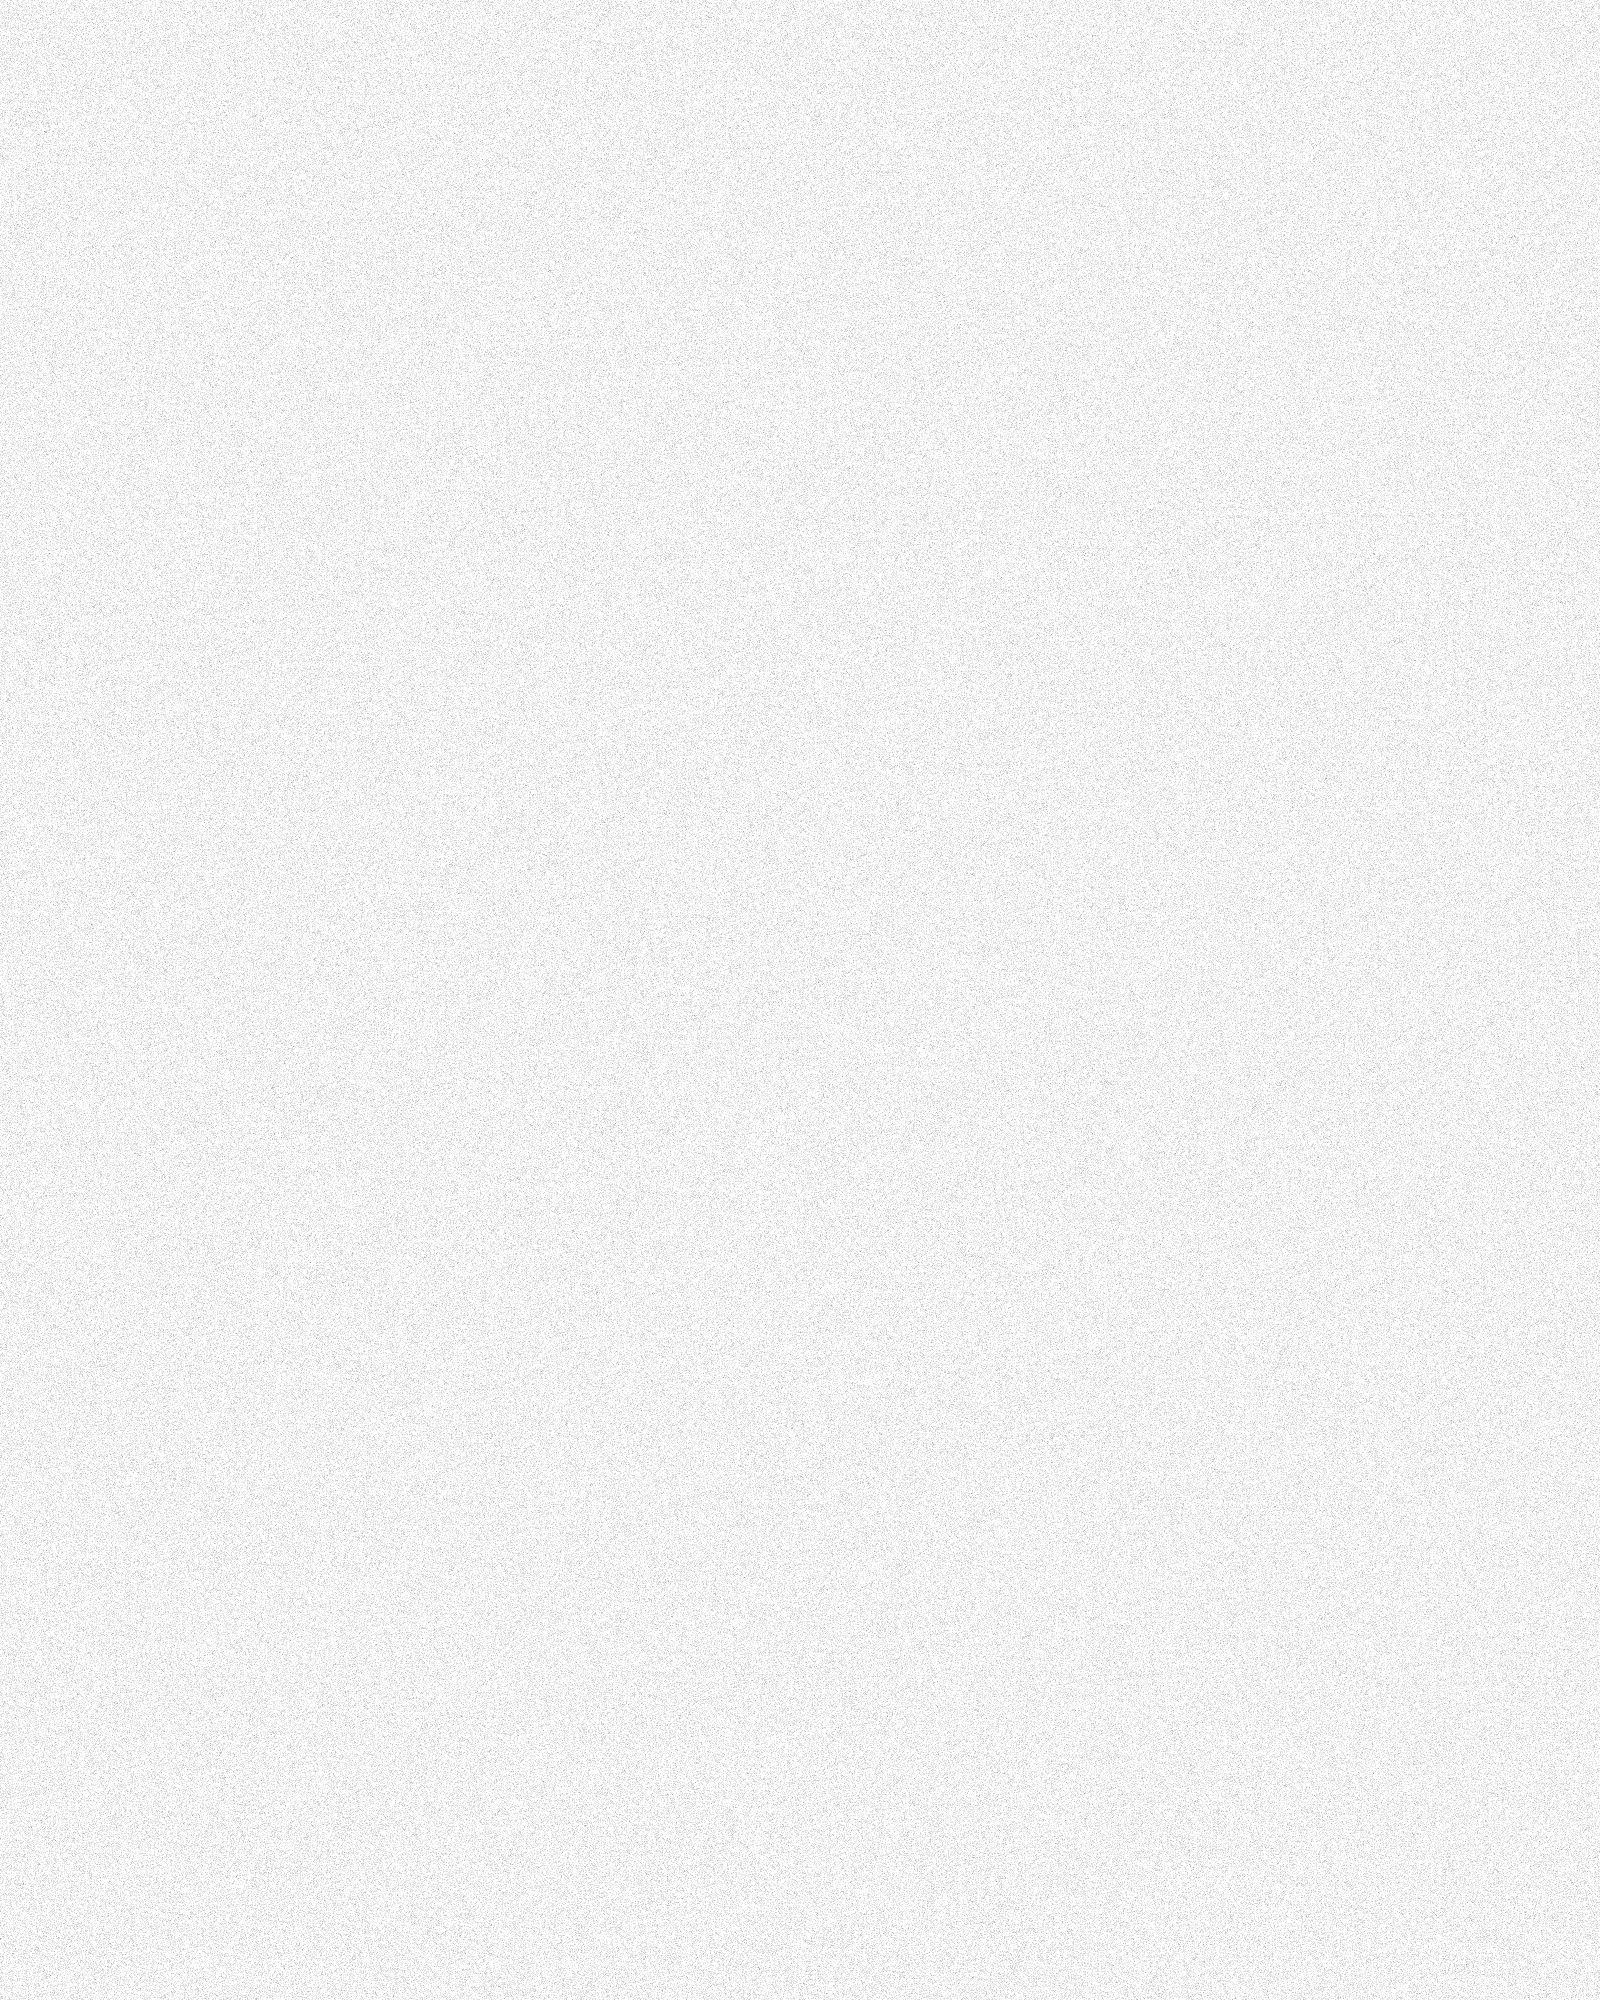
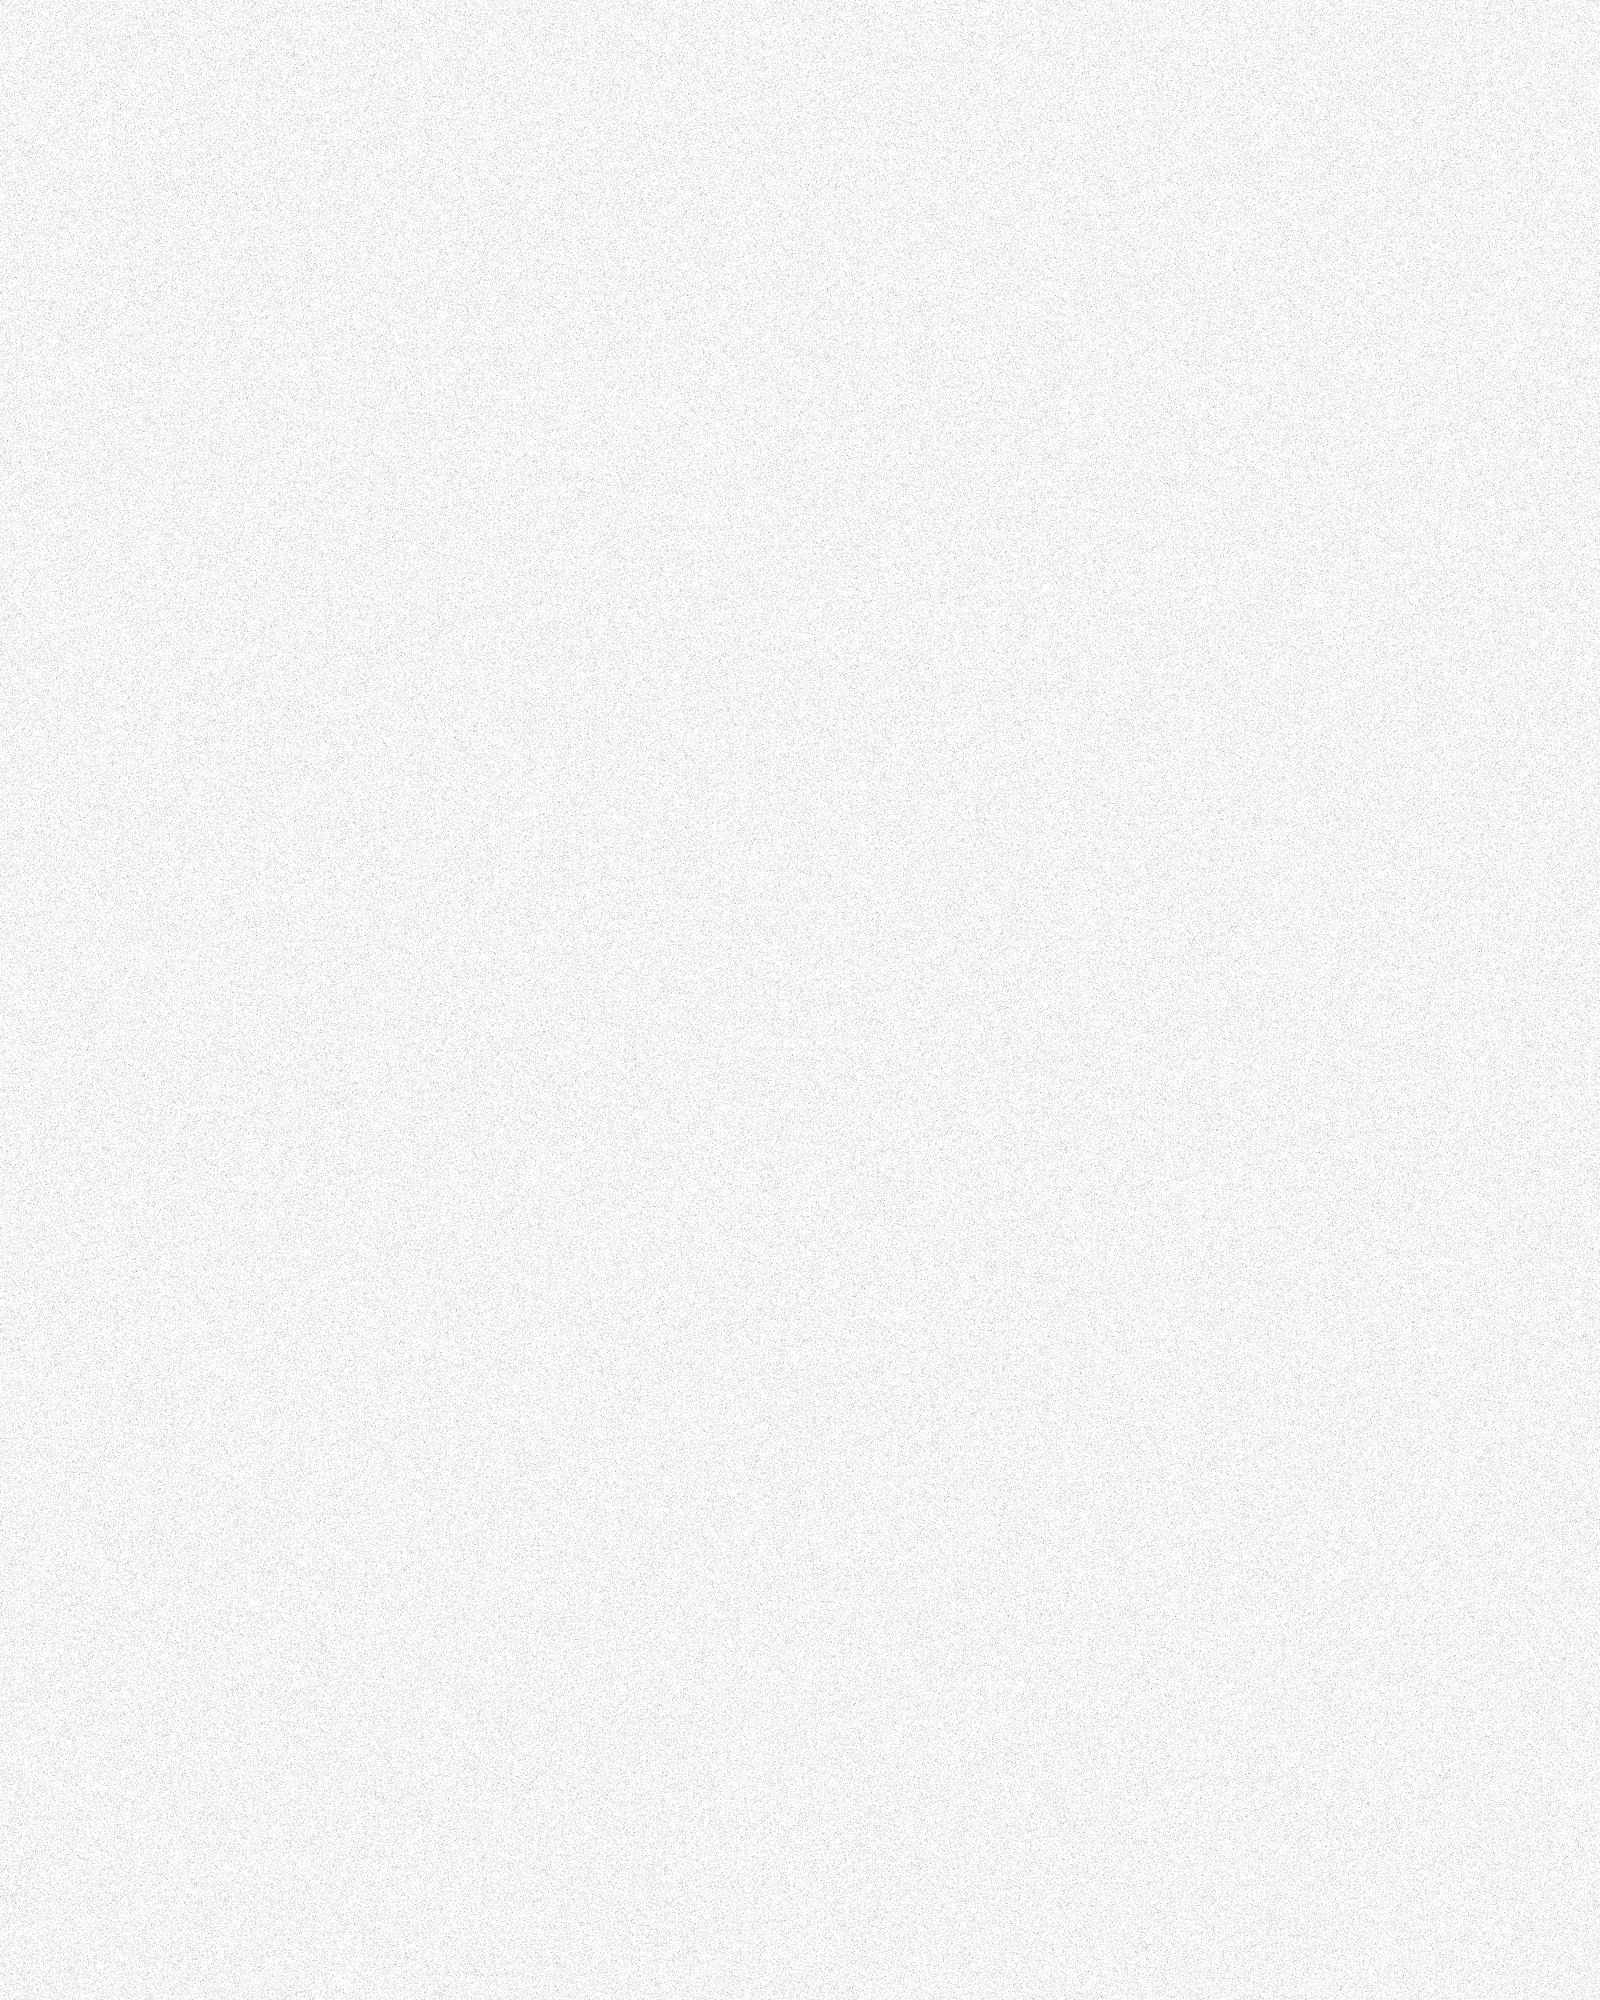
fix noise

Changed region(s): [[0.0, 0.0, 1.0, 1.0]]

diff --git a/frontend/src/styles/globals.scss b/frontend/src/styles/globals.scss
@@ -11,7 +11,7 @@ body::after {
   height: 100%;
   z-index: 9999;
   background-size: cover;
-  opacity: 0.7;
+  opacity: 0.9;
   /* Настрой интенсивность шума */
   pointer-events: none;
   /* Чтобы не мешало кликам */
